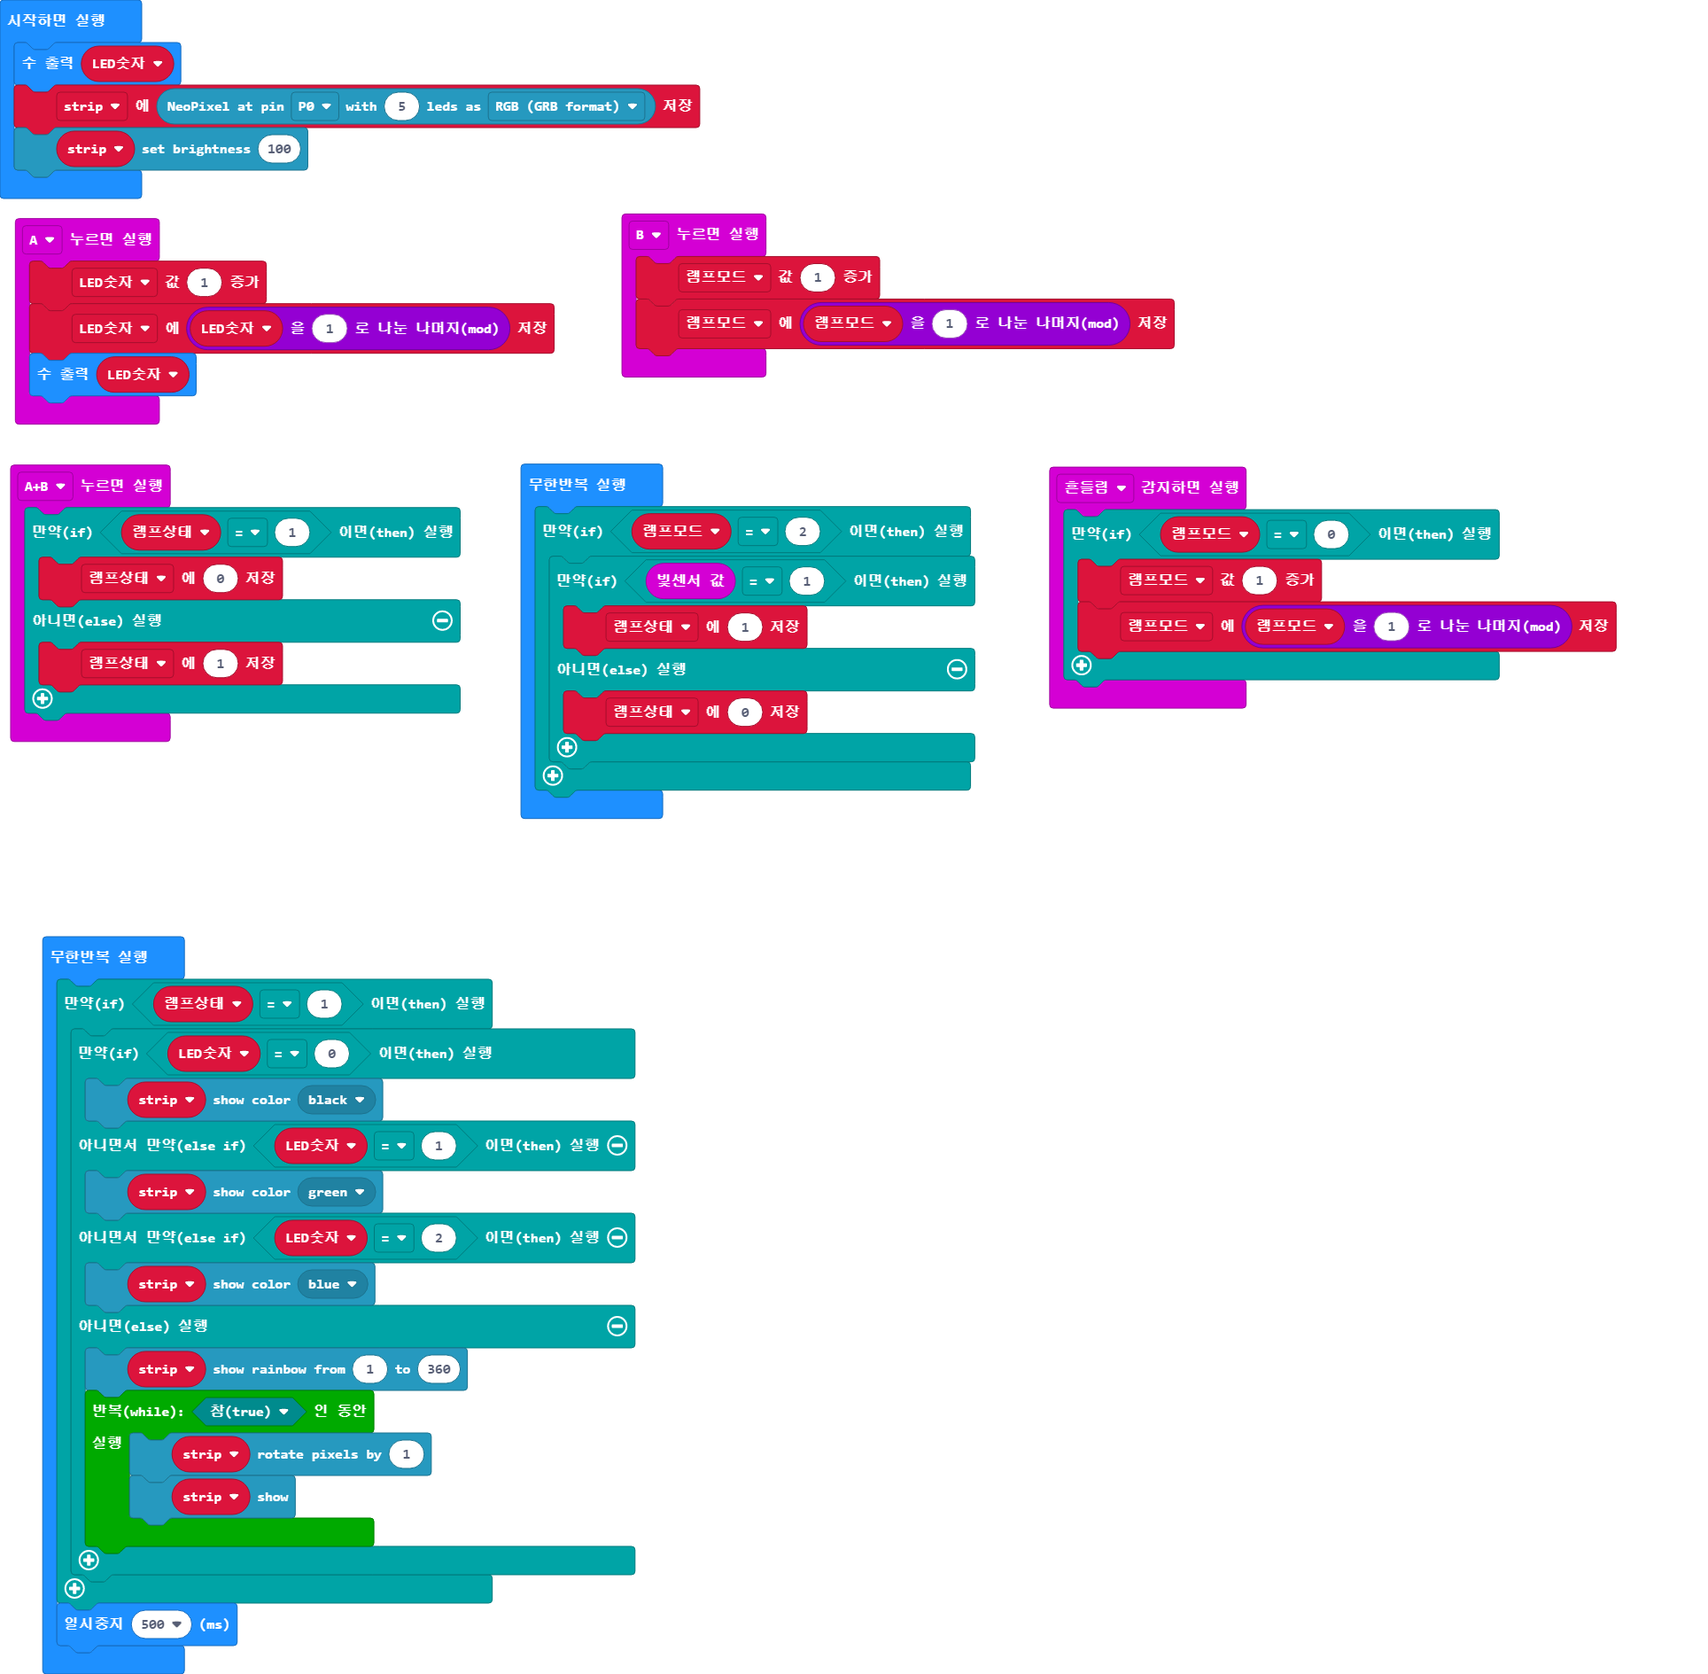
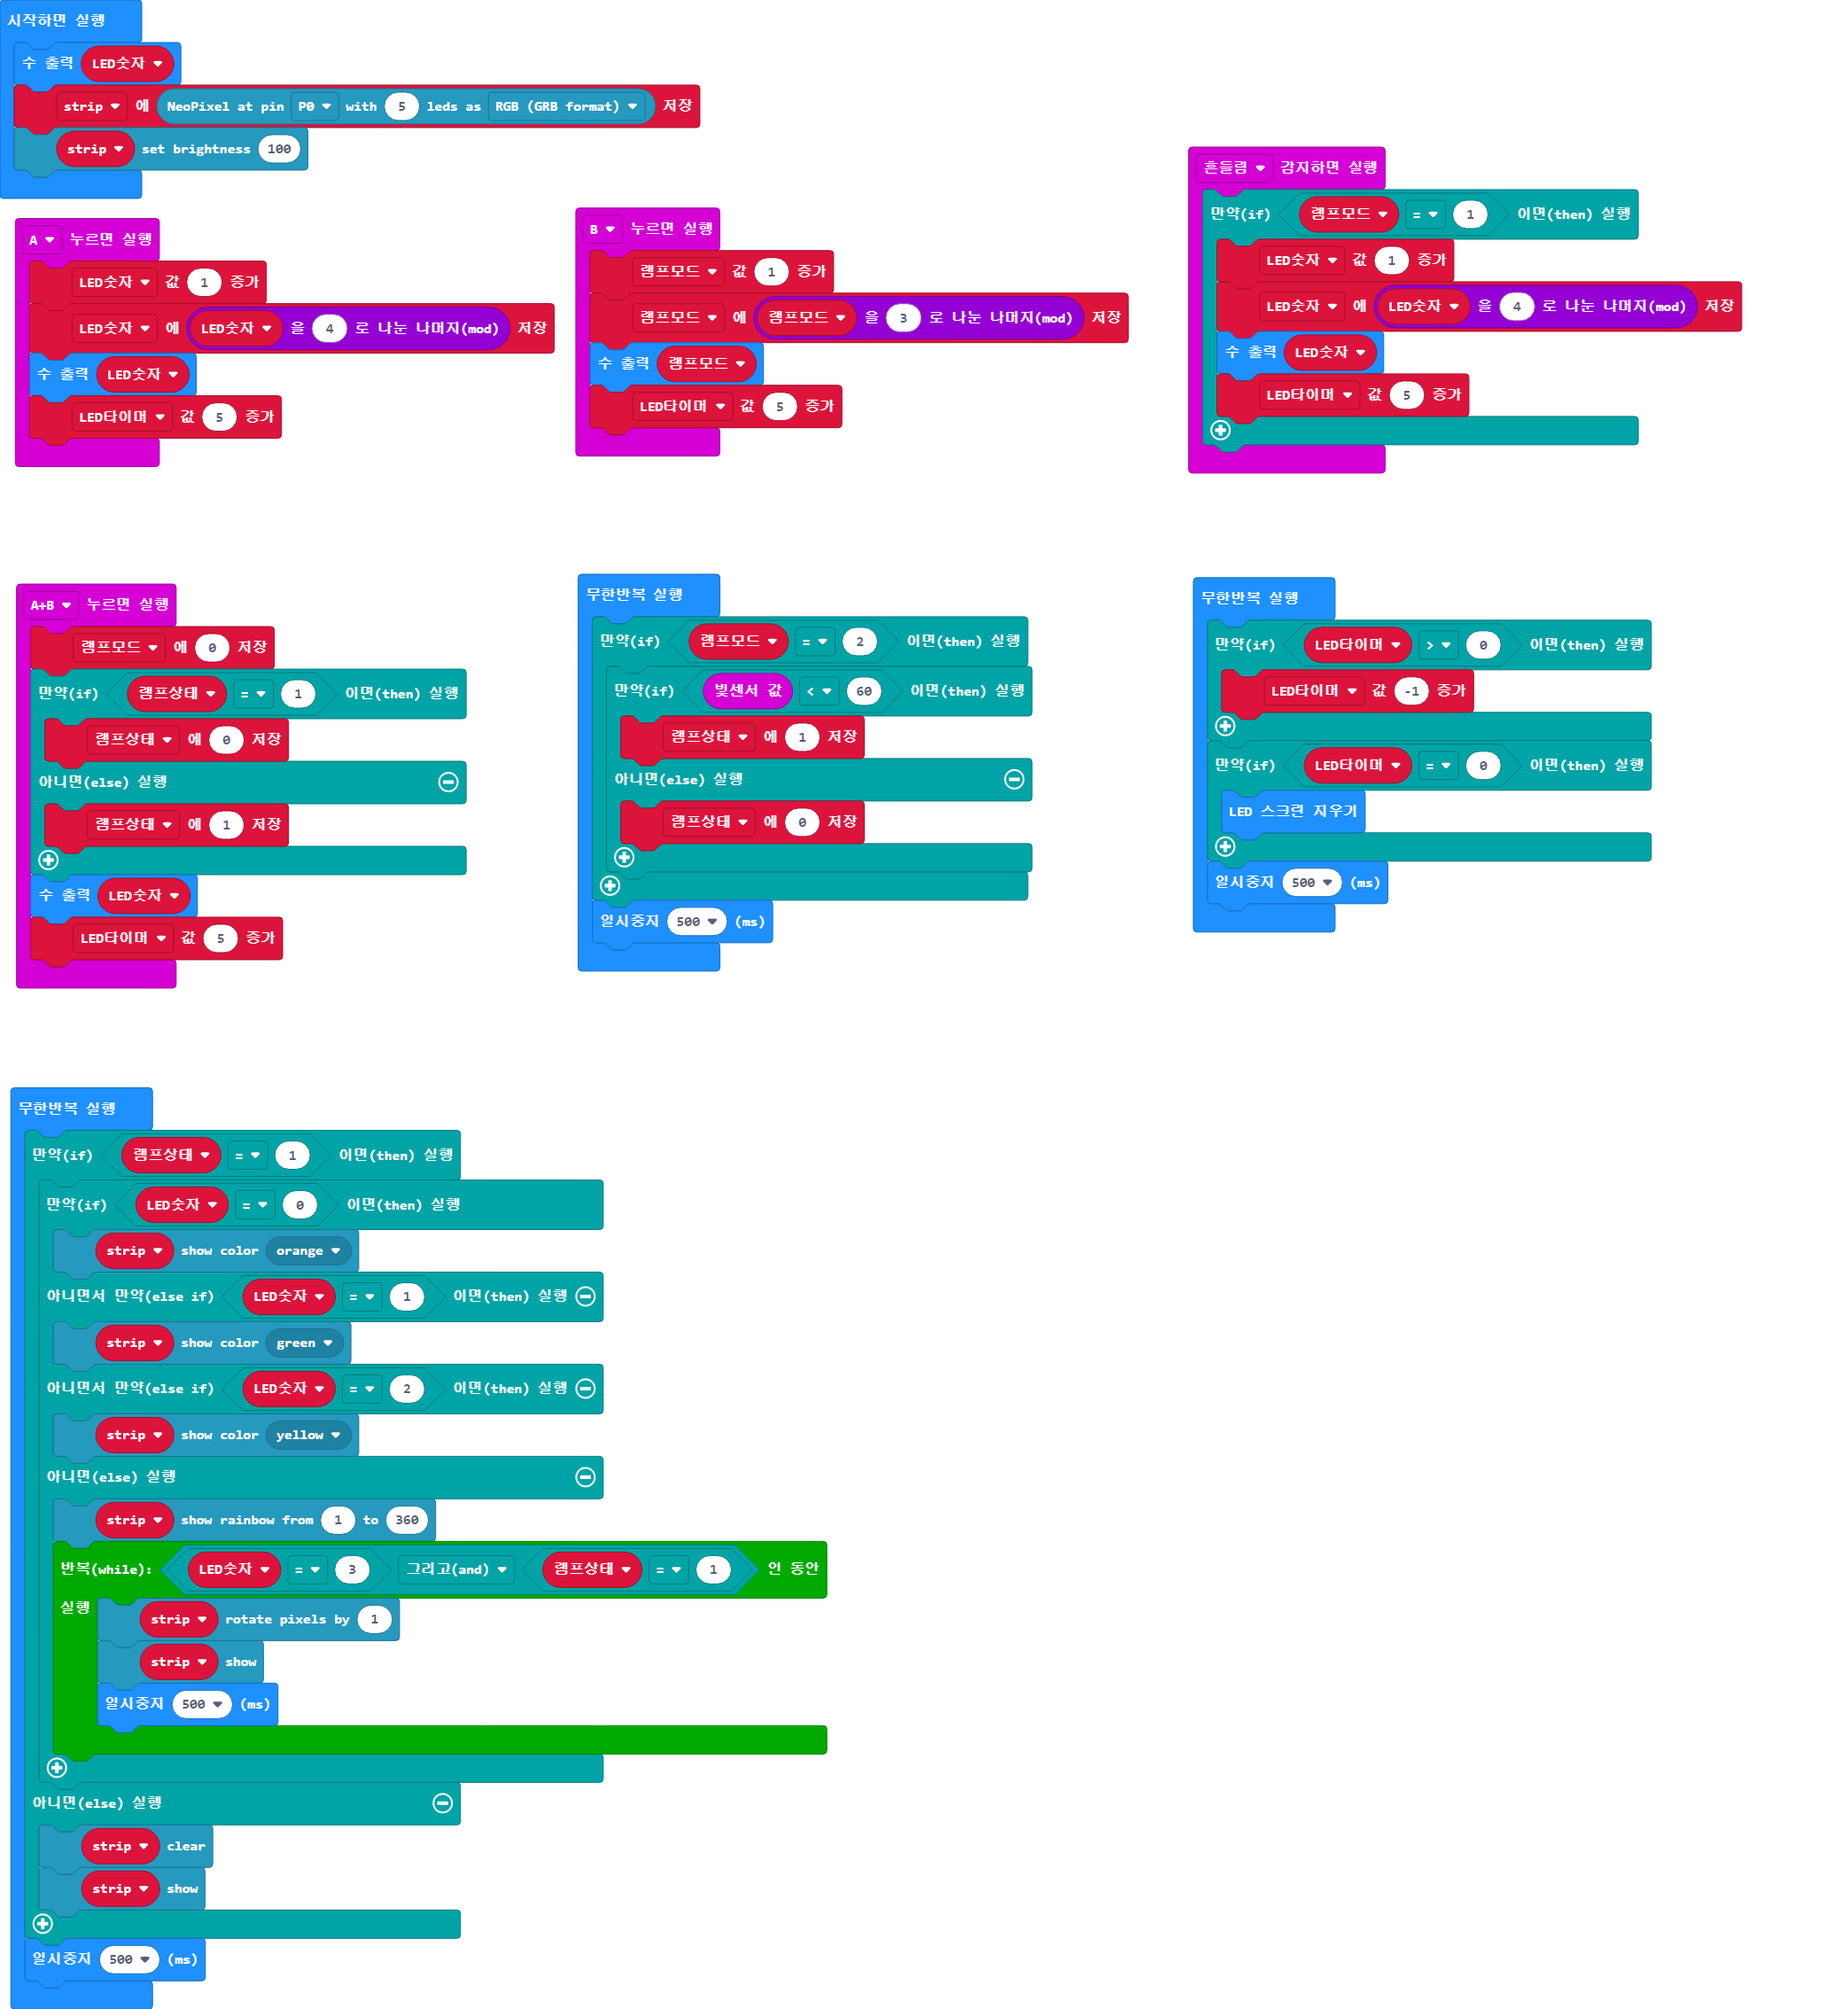
LED 타이머 적용

Changed region(s): [[0.0, 0.0, 0.9647, 0.4997], [0.0, 0.531, 0.4668, 1.0]]

diff --git a/main.ts b/main.ts
@@ -1,55 +1,78 @@
 input.onButtonPressed(Button.A, function () {
     LED숫자 += 1
-    LED숫자 = LED숫자 % 1
+    LED숫자 = LED숫자 % 4
     basic.showNumber(LED숫자)
+    LED타이머 += 5
 })
 input.onGesture(Gesture.Shake, function () {
-    if (램프모드 == 0) {
-        램프모드 += 1
-        램프모드 = 램프모드 % 1
+    if (램프모드 == 1) {
+        LED숫자 += 1
+        LED숫자 = LED숫자 % 4
+        basic.showNumber(LED숫자)
+        LED타이머 += 5
     }
 })
 input.onButtonPressed(Button.AB, function () {
+    램프모드 = 0
     if (램프상태 == 1) {
         램프상태 = 0
     } else {
         램프상태 = 1
     }
+    basic.showNumber(LED숫자)
+    LED타이머 += 5
 })
 input.onButtonPressed(Button.B, function () {
     램프모드 += 1
-    램프모드 = 램프모드 % 1
+    램프모드 = 램프모드 % 3
+    basic.showNumber(램프모드)
+    LED타이머 += 5
 })
 let 램프상태 = 0
 let 램프모드 = 0
+let LED타이머 = 0
 let LED숫자 = 0
 basic.showNumber(LED숫자)
 let strip = neopixel.create(DigitalPin.P0, 5, NeoPixelMode.RGB)
 strip.setBrightness(100)
 basic.forever(function () {
     if (램프모드 == 2) {
-        if (input.lightLevel() == 1) {
+        if (input.lightLevel() < 60) {
             램프상태 = 1
         } else {
             램프상태 = 0
         }
     }
+    basic.pause(500)
+})
+basic.forever(function () {
+    if (LED타이머 > 0) {
+        LED타이머 += -1
+    }
+    if (LED타이머 == 0) {
+        basic.clearScreen()
+    }
+    basic.pause(500)
 })
 basic.forever(function () {
     if (램프상태 == 1) {
         if (LED숫자 == 0) {
-            strip.showColor(neopixel.colors(NeoPixelColors.Black))
+            strip.showColor(neopixel.colors(NeoPixelColors.Orange))
         } else if (LED숫자 == 1) {
             strip.showColor(neopixel.colors(NeoPixelColors.Green))
         } else if (LED숫자 == 2) {
-            strip.showColor(neopixel.colors(NeoPixelColors.Blue))
+            strip.showColor(neopixel.colors(NeoPixelColors.Yellow))
         } else {
             strip.showRainbow(1, 360)
-            while (true) {
+            while (LED숫자 == 3 && 램프상태 == 1) {
                 strip.rotate(1)
                 strip.show()
+                basic.pause(500)
             }
         }
+    } else {
+        strip.clear()
+        strip.show()
     }
     basic.pause(500)
 })
